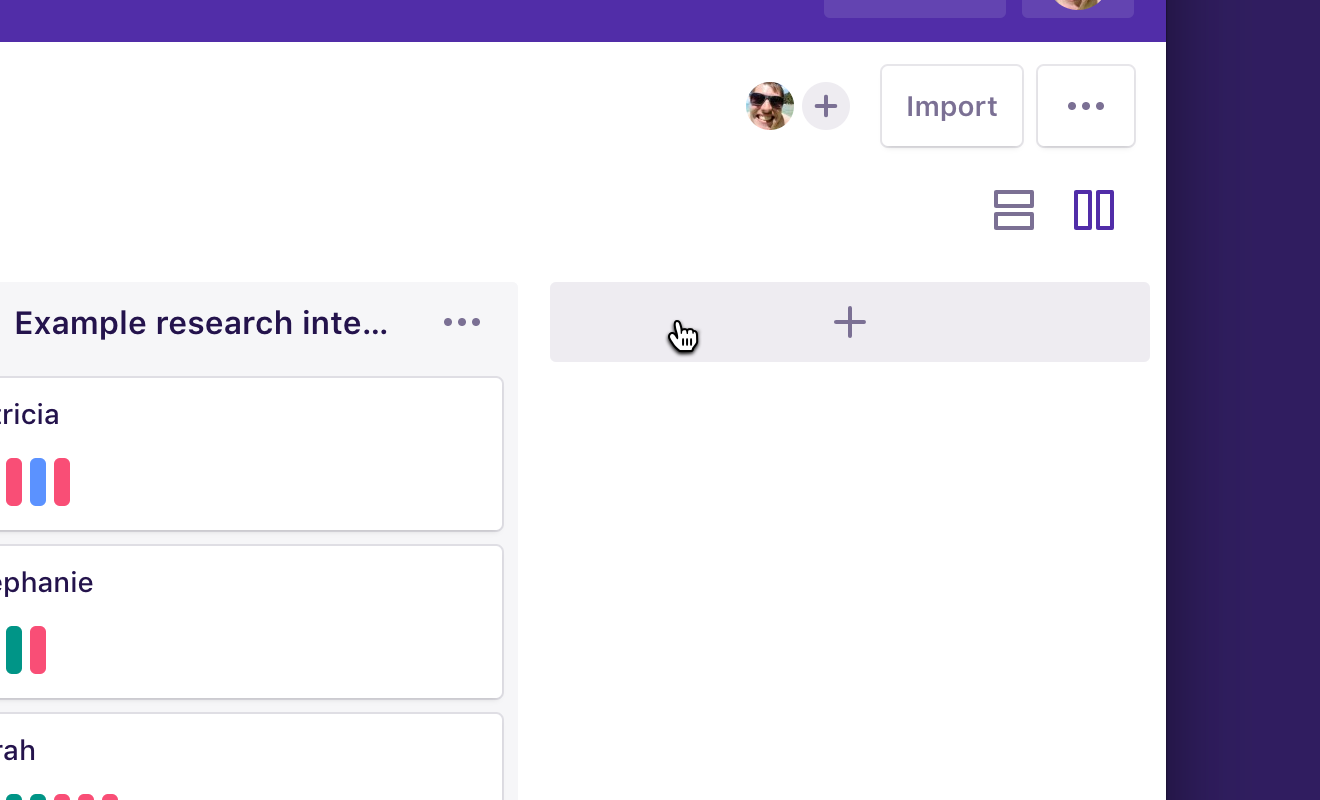
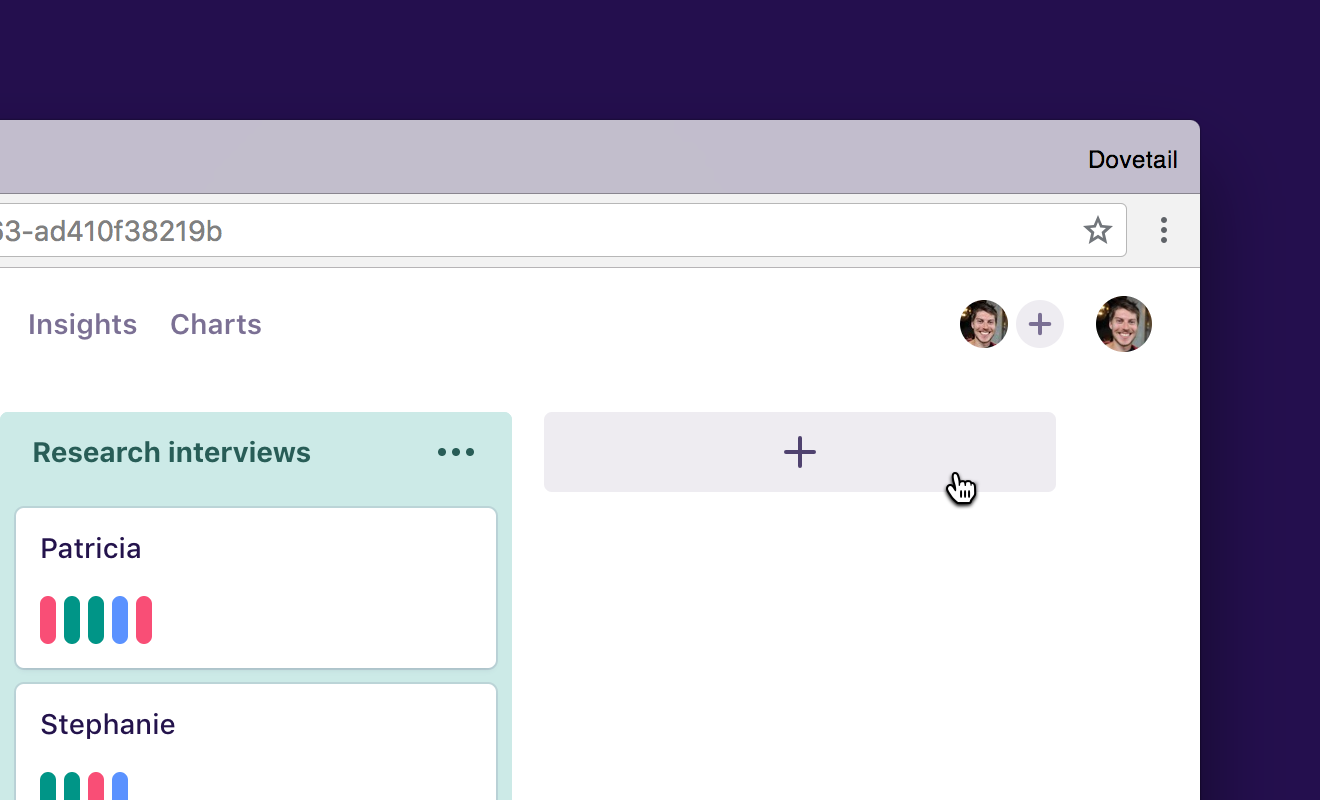
docs: Update screenshots and documentation to match redesign

diff --git a/src/pages/help/get-started/charts/index.md b/src/pages/help/get-started/charts/index.md
@@ -1,13 +1,13 @@
 ---
 path: "/help/charts"
-date: "2018-04-11"
+date: "2018-06-25"
 title: "See your tag usage as a bar or line chart"
 weight: 5
 ---
 
 ![Screenshot of a bar chart in Dovetail](./bar.png)
 
-Understand your project at a glance by combining the power of highlights on qualitative data with a quantitative visualization as a bar chart or line chart.
+Understand your project at a glance by combining the power of tag highlights on qualitative data with a quantitative visualization as a bar chart or line chart.
 
 In a project, click **Charts** to get started.
 
@@ -18,14 +18,14 @@ In a project, click **Charts** to get started.
 Dovetail’s charts can show three metrics, each of which give you a slightly different perspective on your data.
 
 * **Highlights by tag.** This shows the total count of highlights created on notes. For example, if you have 6 notes and across those notes you’ve added 14 highlights, this would show 14.
-* **Highlights by note.** This is very similar to highlights by tag however it will only count an highlight at most once per note. Using the example above, this would show 6 rather than 14.
+* **Notes by tag.** This is very similar to highlights by tag however it will only count an highlight at most once per note. Using the example above, this would show 6 rather than 14.
 * **Tagged text volume.** This shows the total character count per highlight. If your data is customer interview transcripts or user feedback, this metric can be useful to help you get an understanding of how much importance the subject places on this topic.
 
 ## Bar chart
 
 ![Screenshot of a bar chart in Dovetail](./bar.png)
 
-The bar chart is the default visualization. It displays your selected metric at the current point in time. On the bar chart, tags are interactive. Just click on a bar to open that tag, however, note that bars showing groups are not interactive.
+The bar chart is the default visualization. It displays your selected metric at the current point in time. On the bar chart, tags are interactive – just click on a bar to open that tag, however, note that bars showing groups are not interactive.
 
 ## Line chart
 

diff --git a/src/pages/help/get-started/bulk-edit/index.md b/src/pages/help/get-started/bulk-edit/index.md
@@ -1,13 +1,13 @@
 ---
 path: "/help/bulk-edit"
-date: "2018-04-11"
+date: "2018-06-25"
 title: "Edit and merge highlights"
 weight: 4
 ---
 
 ![Screenshot of multiple selected highlights](./bulk-edit.png)
 
-Dovetail offers a powerful highlights editing mode to help you move highlights around and re-organize your tags and insights. Using bulk editing, you can merge two tags or insights together, add highlights to insights, or remove a tag or insight from multiple highlights at once.
+Dovetail offers a bulk editing mode to help you move highlights around and re-organize your tags and insights. Using bulk editing, you can merge two tags or insights together, add highlights to insights, or remove a tag or insight from multiple highlights at once.
 
 To enter bulk editing mode, visit a tag or insight and click the checkbox on an highlight card. The blue bulk editing header will appear at the top of the screen. To cancel what you’re doing, click the back arrow in the top left of the screen.
 
@@ -19,7 +19,7 @@ To add another tag or insight to multiple highlights:
 
 1.  Click the checkbox on the first highlight you’d like to modify.
 1.  Select other highlights, or hold **Shift** and click to select a range.
-1.  Click **Plus (+)** in the top right of the bulk edit header.
+1.  Click **Add** in the top right of the bulk edit header.
 1.  Type to select an existing tag or insight, or create a new one.
 1.  The tag or insight you choose will be added to the selected highlights.
 
@@ -43,5 +43,5 @@ To remove the existing tag or insight from multiple highlights:
 
 1.  Click the checkbox on the first highlight you’d like to modify.
 1.  Select other highlights, or hold **Shift** and click to select a range.
-1.  Click **Remove** in the top right of the bulk edit header.
+1.  Click **More (···)** then **Remove** in the top right of the bulk edit header.
 1.  The current tag or insight will be removed from the selected highlights, and they will disappear from this screen.

diff --git a/src/pages/help/get-started/projects/index.md b/src/pages/help/get-started/projects/index.md
@@ -1,6 +1,6 @@
 ---
 path: "/help/projects"
-date: "2018-04-11"
+date: "2018-06-25"
 title: "Create projects and notes"
 weight: 1
 ---
@@ -15,8 +15,6 @@ Teams, projects, groups, and notes / tags / insights exist in a hierarchy:
 
 ## Projects
 
-![Screenshot of a list of projects](./projects.png)
-
 In Dovetail, projects can represent many things. For example, a project could contain:
 
 * A set of customer interviews.
@@ -24,6 +22,8 @@ In Dovetail, projects can represent many things. For example, a project could co
 * A collection of ongoing user feedback.
 * A collection of feedback from other apps.
 * A large research project covering many methods.
+
+**Note:** Tags are project-specific. Create a new project when you want to create a new set of tags, or continue using the same project if you’d like to share tags.
 
 ### Create a new project
 
@@ -33,7 +33,16 @@ To create a new project:
 
 1.  Click the **logo** in the top left to visit **[all projects](/projects)**.
 1.  Click **New project**.
-1.  Enter a **title** for your project near the top left of the screen.
+
+### Edit a project
+
+![Screenshot of cursor over the project title](./edit-project.png)
+
+To edit a project:
+
+1.  Click the **project title** near the top left to open the **project dropdown**.
+1.  Type to edit the title of the project, and hit **Enter** to save.
+1.  You can also import, export, archive, delete, and do more from this menu.
 
 ## Groups
 

diff --git a/src/pages/help/get-started/create-tags/index.md b/src/pages/help/get-started/create-tags/index.md
@@ -1,11 +1,11 @@
 ---
 path: "/help/tags"
-date: "2018-04-11"
+date: "2018-06-25"
 title: "Create tags"
 weight: 2
 ---
 
-The power of Dovetail lies in inline tagging, which we call **annotating**. There are two types of highlights: [**tags**](/help/tags) and [**insights**](/help/insights).
+The power of Dovetail lies in inline tagging, which we call **highlighting**. There are two types of highlights: [**tags**](/help/tags) and [**insights**](/help/insights).
 
 Highlights are added to content inside **notes**. Unlike other products, with Dovetail, you could highlight a single word, sentence, or paragraph with a tag or insight. This means you can add more granular tags or insights to content.
 
@@ -40,7 +40,7 @@ To create a new tag in Dovetail:
 To add an existing tag to text in Dovetail:
 
 1.  Open a **note**.
-1.  With your mouse or keyboard, highlight the text you’d like to tag.
+1.  With your mouse or keyboard, select the text you’d like to tag.
 1.  On the right, click **Type to create** (or use the **TAB** key).
 1.  Type the name of your existing tag.
 1.  Click the existing tag (or use the **up / down arrows**).
@@ -49,7 +49,7 @@ To add an existing tag to text in Dovetail:
 
 ![Screenshot of all the highlights for a single tag](./highlights.png)
 
-To see everything with a particular tag:
+To see all highlights on a particular tag:
 
 1.  Open a **project**.
 1.  Click the **Tags** tab.

diff --git a/src/pages/help/get-started/archive/index.md b/src/pages/help/get-started/archive/index.md
@@ -1,6 +1,6 @@
 ---
 path: "/help/archive"
-date: "2018-04-11"
+date: "2018-06-25"
 title: "Archive completed projects"
 weight: 7
 ---
@@ -8,16 +8,16 @@ weight: 7
 Completed projects can be **archived** to keep your list of projects tidy and signal to others that the project has ended. A few things to note:
 
 * Archived projects can still be used like normal.
-* Once a project is archived, a message will appear on the top of the project.
+* Once a project is archived, a lozenge will appear next to the project title.
 * Feedback forms and Zapier integrations will continue to work.
 * Projects must be archived before they can be deleted.
 
 ## Archive a project
 
-![Screenshot of the project ‘More menu’](./archive.png)
+![Screenshot of the project menu](./archive.png)
 
 To archive a project:
 
 1.  Open the project you’d like to archive.
-1.  Click the **More menu** (three dots) in the top right.
-1.  Click **Archive**.
+1.  Click the **project title** near the top left.
+1.  Click **Archive** at the bottom of the list.

diff --git a/src/pages/help/import-your-data/spreadsheet/index.md b/src/pages/help/import-your-data/spreadsheet/index.md
@@ -1,6 +1,6 @@
 ---
 path: "/help/spreadsheet"
-date: "2018-05-04"
+date: "2018-06-25"
 title: "Upload data using a spreadsheet"
 weight: 2
 ---
@@ -35,9 +35,9 @@ You can map this field to one column. We support all UTF-8 characters, including
 
 ### Choose your file
 
-Once you’ve got your CSV file ready, open the project you’d like to import your data into and click **Import** near the top right:
+Once you’ve got your CSV file ready, open the project you’d like to import your data into and click the **project title** in the top left, then **Import**:
 
-![Screenshot of a cursor over the ‘Import’ button in a project](./import.png)
+![Screenshot of a cursor over the project menu in a project](./import.png)
 
 Click **Upload a CSV file with data** and choose a .csv file from your computer:
 

diff --git a/src/pages/help/get-started/create-insights/index.md b/src/pages/help/get-started/create-insights/index.md
@@ -1,11 +1,11 @@
 ---
 path: "/help/insights"
-date: "2018-04-11"
+date: "2018-06-25"
 title: "Create insights"
 weight: 3
 ---
 
-The power of Dovetail lies in inline tagging, which we call **annotating**. There are two types of highlights: [**tags**](/help/tags) and [**insights**](/help/insights).
+The power of Dovetail lies in inline tagging, which we call **highlighting**. There are two types of highlights: [**tags**](/help/tags) and [**insights**](/help/insights).
 
 Highlights are added to content inside **notes**. Unlike other products, with Dovetail, you could highlight a single word, sentence, or paragraph with a tag or insight. This means you can add more granular tags or insights to content.
 

diff --git a/src/pages/help/manage-your-account/photo/index.md b/src/pages/help/manage-your-account/photo/index.md
@@ -1,14 +1,12 @@
 ---
 path: "/help/photo"
-date: "2018-04-11"
+date: "2018-06-25"
 title: "Update your profile photo"
 ---
 
 By default we use your [Gravatar](https://en.gravatar.com/) as your profile photo in Dovetail. To change your photo, you can change your gravatar or upload a new photo to Dovetail.
 
 ## Upload a photo
-
-![Screenshot of a cursor over the ‘Choose file’ button](./upload.png)
 
 To upload a new photo:
 
@@ -17,8 +15,6 @@ To upload a new photo:
 1.  Wait a few seconds for your photo to update.
 
 ## Remove an uploaded photo
-
-![Screenshot of a cursor over the ‘Remove’ button](./remove.png)
 
 To remove an uploaded photo:
 

diff --git a/src/pages/help/import-your-data/form-customize/index.md b/src/pages/help/import-your-data/form-customize/index.md
@@ -1,5 +1,5 @@
 ---
-date: "2018-05-21"
+date: "2018-06-25"
 path: "/help/form-customize"
 title: "Create an embeddable feedback form"
 weight: 5
@@ -42,8 +42,6 @@ To customize a form, click the **Customize** button on the form. You can customi
 ## Manage forms for a project
 
 Each project can have multiple feedback forms with different customization options. This can be useful if you’d like to have a separate form for different features in your product or different sections on your website.
-
-![Screenshot of the form list screen in Dovetail](./manage-forms.png)
 
 ## Add the form to your website
 

diff --git a/src/pages/help/export-your-data/export-annotations/index.md b/src/pages/help/export-your-data/export-annotations/index.md
@@ -1,5 +1,5 @@
 ---
-date: "2018-04-26"
+date: "2018-06-25"
 path: "/help/export-highlights"
 title: "Download a spreadsheet of highlights"
 weight: 1

diff --git a/src/pages/help/manage-your-team/domain-sign-up/index.md b/src/pages/help/manage-your-team/domain-sign-up/index.md
@@ -1,5 +1,5 @@
 ---
-date: "2018-04-11"
+date: "2018-06-25"
 path: "/help/domain-sign-up"
 title: "Enable domain-restricted sign up"
 weight: 5

diff --git a/src/pages/help/manage-your-team/invite/index.md b/src/pages/help/manage-your-team/invite/index.md
@@ -1,5 +1,5 @@
 ---
-date: "2018-04-11"
+date: "2018-06-25"
 path: "/help/invite"
 title: "Invite people to your team"
 weight: 2
